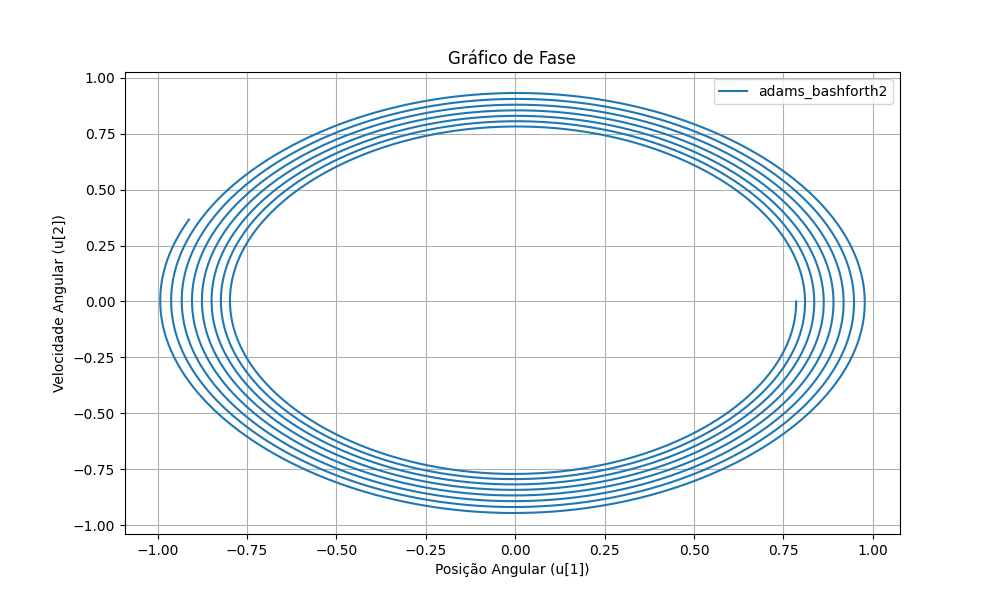
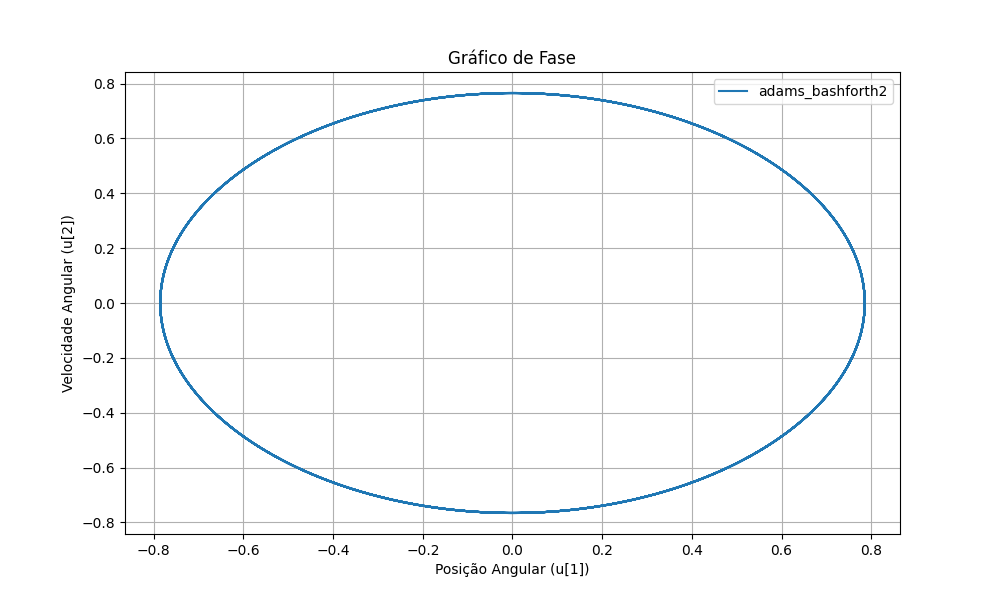
adams bash

Changed region(s): [[0.031, 0.12, 0.899, 0.93], [0.093, 0.66, 0.124, 0.72]]

diff --git a/02/Metodos.py b/02/Metodos.py
@@ -67,11 +67,11 @@ class Metodos:
         # Plota os gráficos para cada método de resolução
         for i in self.metodos_dict.keys():
             # Plota o gráfico de velocidade versus tempo
-            self.plot_vel_pos(i)
+            # self.plot_vel_pos(i)
             # # Calcula e plota os erros para cada método
             # self.erros_metodos(self.metodos_dict[i], i)
             # # Plota o gráfico de fase
-            # self.plot_grafico_fase(self.metodos_dict[i], i)
+            self.plot_grafico_fase(self.metodos_dict[i], i)
 
         return
 
@@ -263,26 +263,13 @@ class Metodos:
         u = [u0]  # Lista para armazenar os valores de u
 
         # Inicialização usando o método de Euler explícito
-        t_i = t0
-        u_i = u0
-        f_i = self.f(u_i, t_i)
-        t_prox = t_i + h
-        u_prox_pred = u_i + h * f_i
-        t.append(t_prox)
-        u.append(u_prox_pred)
+        t.append(t[0] + h)
+        u.append(u[0] + h * self.f(u[0], t[0]))
 
         for i in range(2, num_passos + 1):
-            t_i = t_prox
-            u_i = u_prox_pred
-            f_i = self.f(u_i, t_i)
-
-            # Cálculo do próximo valor de t e u usando o método de Adams-Bashforth de ordem 2
-            t_prox = t_i + h
-            u_prox_pred = u_i + (h / 2) * (3 * f_i - self.f(u[i-1], t[i-1]))
-
             # Adição do próximo valor de t e u às listas
-            t.append(t_prox)
-            u.append(u_prox_pred)
+            t.append(t[i-1] + h)
+            u.append(u[i-1] + (h / 2) * (3 * self.f(u[i-1], t[i-1]) - self.f(u[i-2], t[i-2])))
 
         return t, u
 
